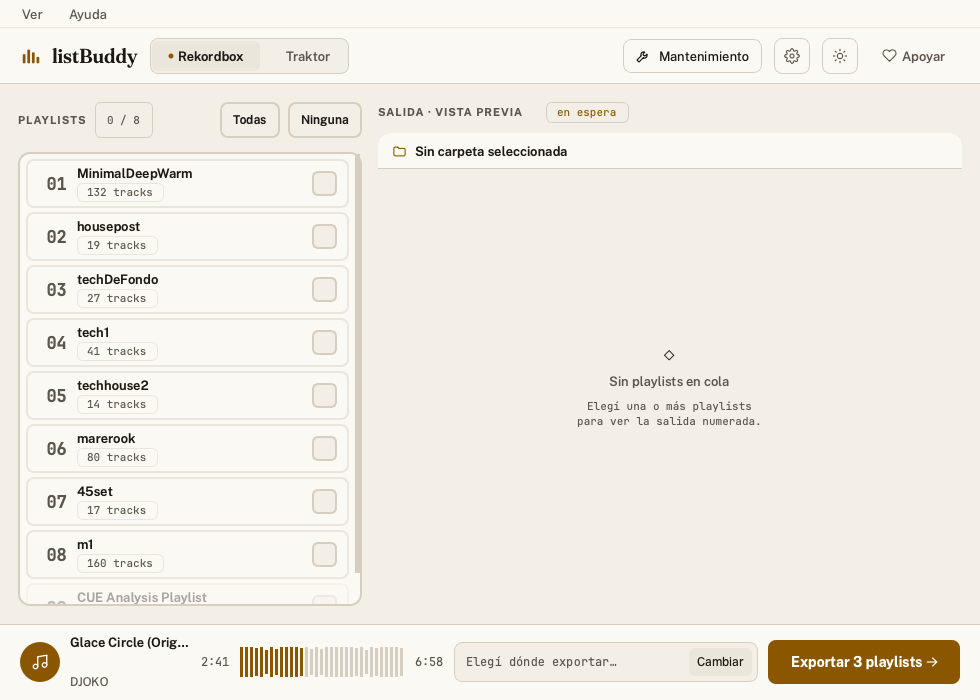
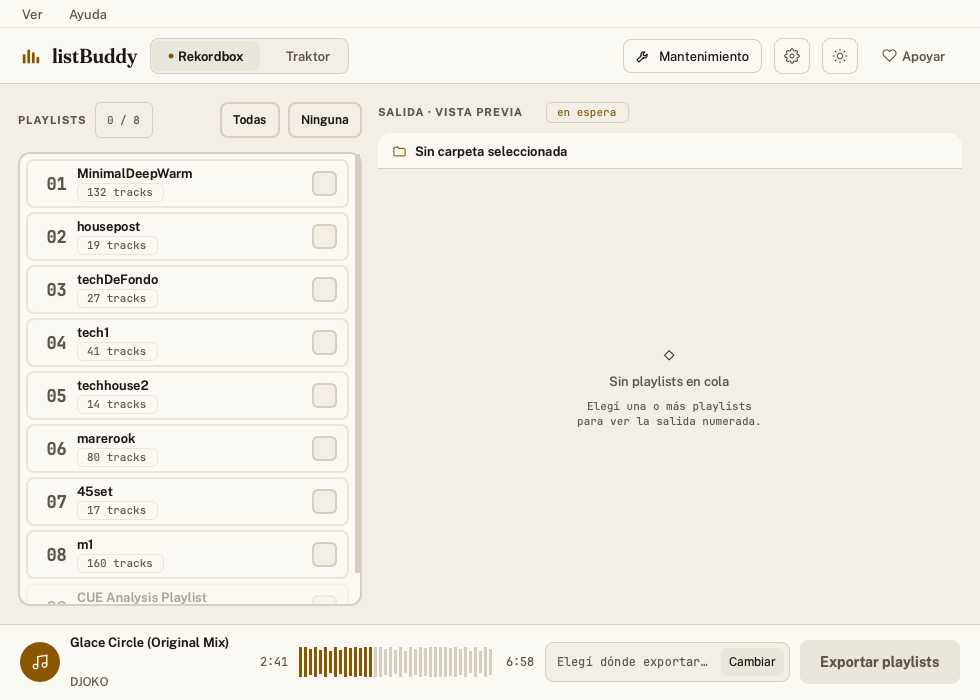
fix(footer): la onda toma el sobrante; info 180-220 y destino cede primero (T-063)
Capturas regeneradas con 3 playlists marcadas de verdad.

Changed region(s): [[0.1837, 0.9, 0.9796, 0.99]]

diff --git a/footer.py b/footer.py
@@ -70,8 +70,7 @@ class FooterBar(QWidget):
         lo.addWidget(self.play_btn)
 
         info = QWidget()
-        info.setMinimumWidth(100)
-        info.setMaximumWidth(220)
+        self._info = info
         il = QVBoxLayout(info)
         il.setContentsMargins(0, 0, 0, 0)
         il.setSpacing(2)
@@ -81,7 +80,7 @@ class FooterBar(QWidget):
         self.artist_lbl.setObjectName("footer_artist")
         il.addWidget(self.title_lbl)
         il.addWidget(self.artist_lbl)
-        lo.addWidget(info, 2)
+        lo.addWidget(info)
 
         wave_box = QWidget()
         wl = QHBoxLayout(wave_box)
@@ -96,16 +95,14 @@ class FooterBar(QWidget):
         wl.addWidget(self.time_cur)
         wl.addWidget(self.wave, 1)
         wl.addWidget(self.time_total)
-        lo.addWidget(wave_box, 4)
+        lo.addWidget(wave_box, 1)
 
         # Destino y progreso comparten lugar: uno a la vez (D6).
         self._right = QStackedWidget()
-        self._right.setMaximumWidth(340)
-        self._right.setMinimumWidth(150)
         self._right.setFixedHeight(40)
         self._right.addWidget(self._build_dest())
         self._right.addWidget(self._build_progress())
-        lo.addWidget(self._right, 5)
+        lo.addWidget(self._right)
 
         self.export_btn = QPushButton()
         self.export_btn.setObjectName("footer_export")
@@ -117,6 +114,39 @@ class FooterBar(QWidget):
 
         self.apply_theme("dark")
         self.set_dest("")
+
+    # Reparto de ancho: la onda se lleva el sobrante; info y destino piden
+    # su tamaño del diseño (220 / 300) solo si la onda ya es protagonista.
+    _INFO_MIN, _INFO_FLOOR, _INFO_MAX = 100, 180, 220
+    _DEST_MIN, _DEST_NARROW, _DEST_MAX = 190, 245, 300
+    _WAVE_BOX_MIN, _WAVE_BOX_BIG = 178, 340   # onda de 100 px / de ~240 px
+
+    def _rebalance(self) -> None:
+        self.export_btn.ensurePolished()  # el ancho depende de la fuente del QSS
+        lo = self.layout()
+        m = lo.contentsMargins()
+        fixed = m.left() + m.right() + 4 * lo.spacing() + self.play_btn.width()
+        avail = self.width() - fixed - self.export_btn.sizeHint().width()
+        # Vacío necesita sitio para el placeholder entero; con ruta alcanza menos.
+        dest = self._DEST_MIN if self._dest else self._DEST_NARROW
+        info = self._INFO_FLOOR
+        rest = avail - dest - info
+        if rest < self._WAVE_BOX_MIN:
+            # Angosto: la info cede hasta su mínimo y el destino toma lo que
+            # sobra (hasta 245 px, lo que pide el placeholder entero).
+            info = max(self._INFO_MIN, avail - self._DEST_NARROW - self._WAVE_BOX_MIN)
+            dest = max(150, min(self._DEST_NARROW, avail - info - self._WAVE_BOX_MIN))
+        else:
+            extra = max(0, rest - self._WAVE_BOX_BIG)
+            more = min(extra, self._INFO_MAX - info)
+            info += more
+            dest += min(extra - more, self._DEST_MAX - dest)
+        self._info.setFixedWidth(int(info))
+        self._right.setFixedWidth(int(dest))
+
+    def resizeEvent(self, event) -> None:
+        super().resizeEvent(event)
+        self._rebalance()
 
     def _build_dest(self) -> QWidget:
         box = QWidget()
@@ -199,6 +229,7 @@ class FooterBar(QWidget):
         self.dest_label.setProperty("empty", not text)
         self.dest_label.style().unpolish(self.dest_label)
         self.dest_label.style().polish(self.dest_label)
+        self._rebalance()
         self.dest_changed.emit(text)
 
     def dest_text(self) -> str:
@@ -227,6 +258,7 @@ class FooterBar(QWidget):
         self.export_btn.setIcon(
             icons.icon("arrow_right", token(self._theme, "on_accent"), 16) if arrow else QIcon()
         )
+        self._rebalance()
 
     # ── Progreso ─────────────────────────────────────────────────
 

diff --git a/tests/test_footer.py b/tests/test_footer.py
@@ -427,3 +427,27 @@ def test_footer_empty_placeholder_is_cut_at_the_end_not_the_start() -> None:
         "print(t.startswith('Elegí'), t.endswith('…'))\n"
     )
     assert out.strip().splitlines()[-1] == "True True"
+
+
+def test_footer_wave_is_the_widest_block_at_980_and_title_has_room() -> None:
+    out = run(
+        "import footer\n"
+        "f = footer.FooterBar(); f.resize(980, 76); f.show(); f.set_export_count(3)\n"
+        "f.set_now_playing('Glace Circle (Original Mix)', 'DJOKO')\n"
+        "f.set_dest('/Volumes/MUSIC/LISTAS2026/MAC/Traktor/Sesiones/'); app.processEvents()\n"
+        "w = f.wave.width(); t = f.title_lbl.width(); d = f._right.width()\n"
+        "print(w > t and w > d, t >= 180, d <= 340, w, t, d)\n"
+    )
+    assert out.strip().splitlines()[-1].startswith("True True True")
+
+
+def test_footer_dest_shrinks_before_the_wave_and_title_when_width_is_short() -> None:
+    out = run(
+        "import footer\n"
+        "f = footer.FooterBar(); f.resize(820, 76); f.show(); f.set_export_count(12)\n"
+        "f.set_now_playing('Glace Circle (Original Mix)', 'DJOKO')\n"
+        "f.set_dest('/Volumes/MUSIC/LISTAS2026/MAC/Traktor/Sesiones/'); app.processEvents()\n"
+        "print(f.wave.width() >= 100, f.change_btn.width() >= f.change_btn.sizeHint().width(),\n"
+        "      f.title_lbl.width(), f._right.width(), f.wave.width())\n"
+    )
+    assert out.strip().splitlines()[-1].startswith("True True")

diff --git a/engram/plans/design/capture_t063.py b/engram/plans/design/capture_t063.py
@@ -38,7 +38,12 @@ def shoot(theme: str) -> None:
     foot = getattr(win, "_footer", None)
     if foot is None:
         return
-    foot.set_export_count(3)
+    # Estado coherente: 3 playlists marcadas de verdad (no se fuerza el contador).
+    cards = [c for c in getattr(win, "_all_cards", []) if not c._empty][:3]
+    for c in cards:
+        c.setChecked(True)
+    win._update_order_numbers(); app.processEvents()
+    print(theme, "marcadas:", len(cards), "->", foot.export_btn.text())
     snap("idle", theme)
     foot.set_now_playing("Glace Circle (Original Mix)", "DJOKO")
     foot.set_peaks([0.2 + 0.8 * abs(math.sin(i / 7)) for i in range(400)])
@@ -47,11 +52,16 @@ def shoot(theme: str) -> None:
     foot.set_dest(LONG)
     snap("longdest", theme)
     foot.begin_progress("Copiando y numerando…")
+    foot.set_export_mode("running")
     foot.set_progress(37, 120)
     snap("progress", theme)
+    foot.set_export_mode("idle")
     foot.end_progress("120 copiadas", "✓")
     foot.hide_progress()
     foot.set_dest("")
+    for c in cards:
+        c.setChecked(False)
+    win._update_order_numbers()
 
 
 def run() -> None:
